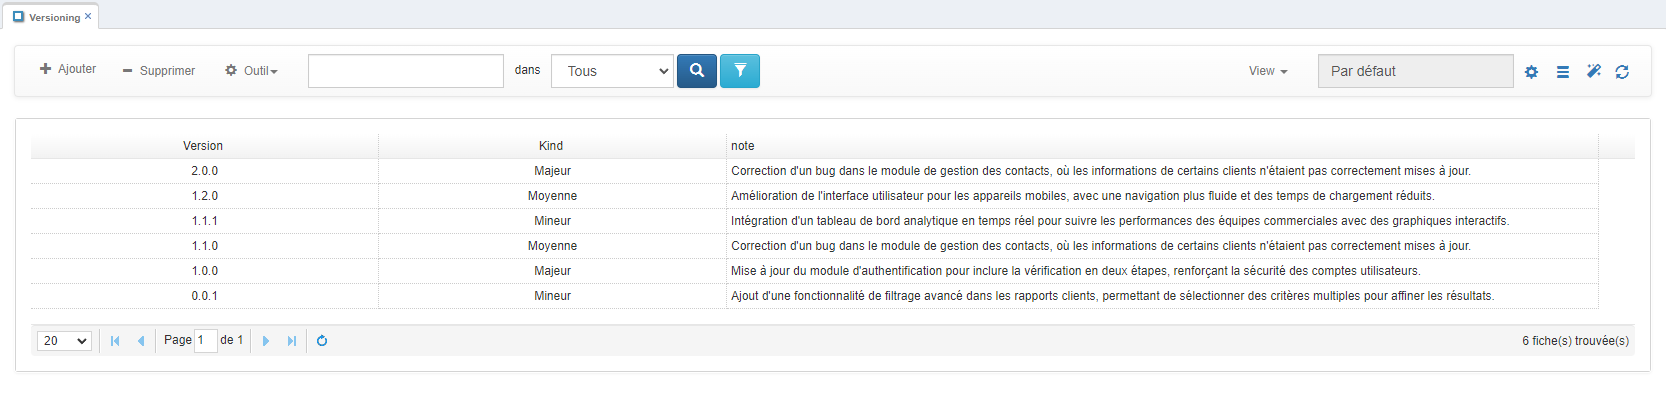
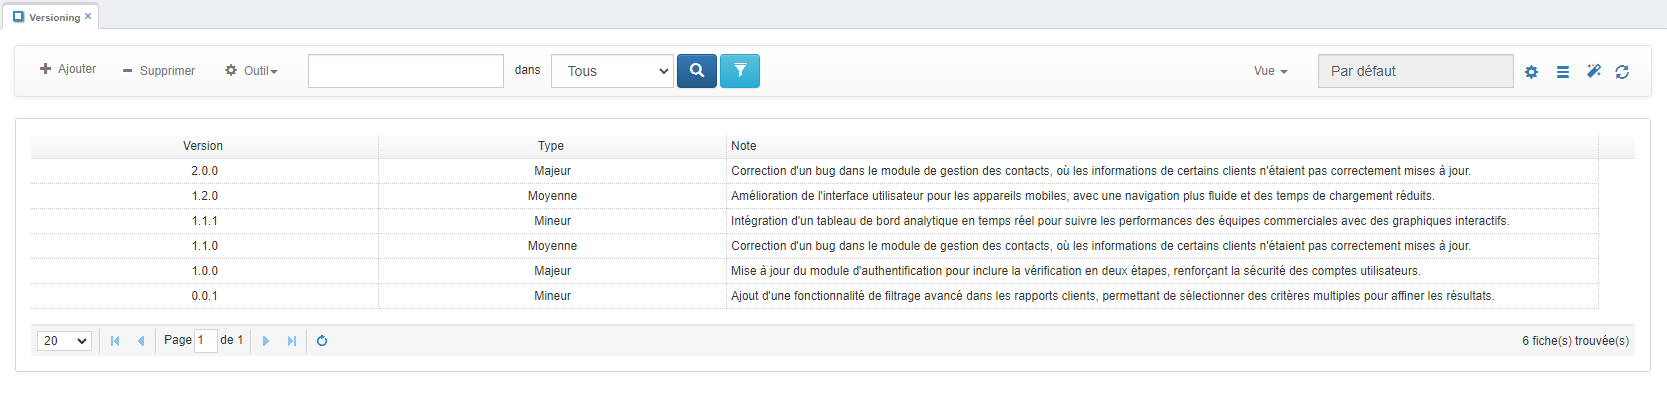
Correction des images qui étaient en anglais

diff --git a/Note_technique/Assistant/readme.md b/Note_technique/Assistant/readme.md
@@ -9,7 +9,7 @@ L'assistant sur GoPaaS permet d'accompagner l'utilisateur à travers différente
 1. **Accéder au menu** :
    - Dans le menu de gauche, allez dans **RÉFÉRENCES** puis dans le sous-menu **PARAMÈTRE** et enfin cliquez sur **ASSISTANT**.
    
-      <img src="./images/image.png" width="30%" alt="Hearder Top" style="border-radius: 5px;"/>
+      <img src="./images/image.png" width="20%" alt="Hearder Top" style="border-radius: 5px;"/>
 
 2. **Ajouter un nouvel assistant** :
    - Cliquez sur le bouton **Ajouter** pour créer un nouvel assistant.

diff --git a/Note_technique/Versionning/readme.md b/Note_technique/Versionning/readme.md
@@ -11,7 +11,7 @@ La fonctionnalité **Versionning** dans GoPaaS permet de gérer les versions de 
    - Allez dans le menu **Admin** (menu de gauche).
    - Cliquez sur **Versionning**.
 
-   <img src="./images/image.png" width="40%" alt="Hearder Top" style="border-radius: 5px;"/>
+   <img src="./images/image.png" width="20%" alt="Hearder Top" style="border-radius: 5px;"/>
    
 2. **Vue des Versions :**
    - Vous verrez un historique des versions précédentes, avec des informations sur les mises à jour passées.
